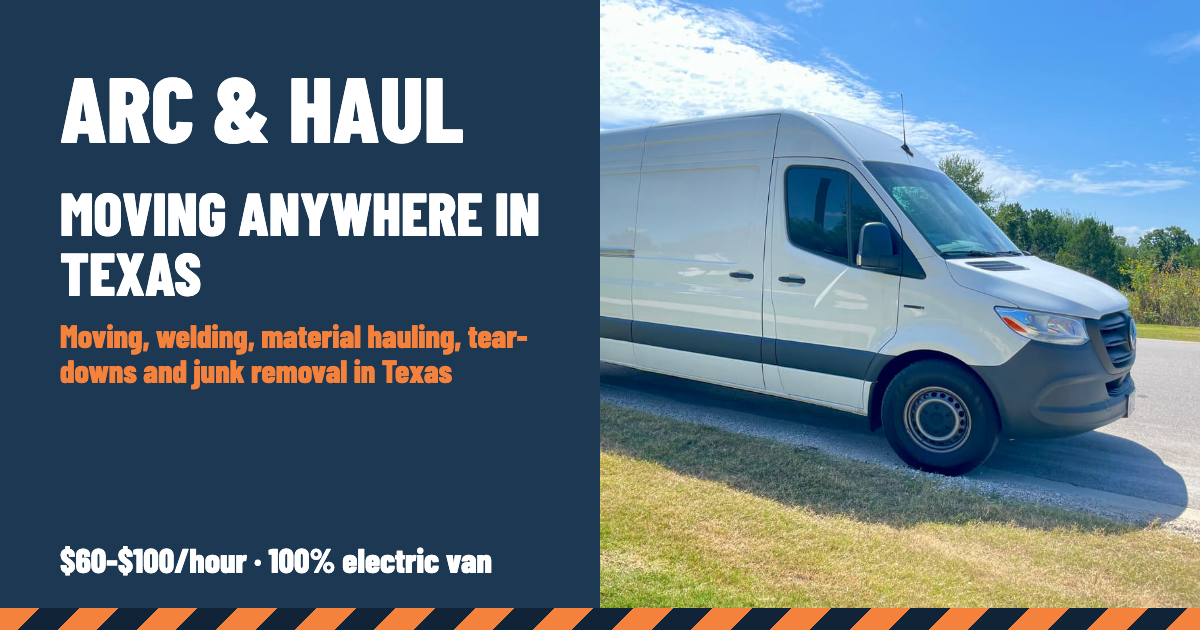
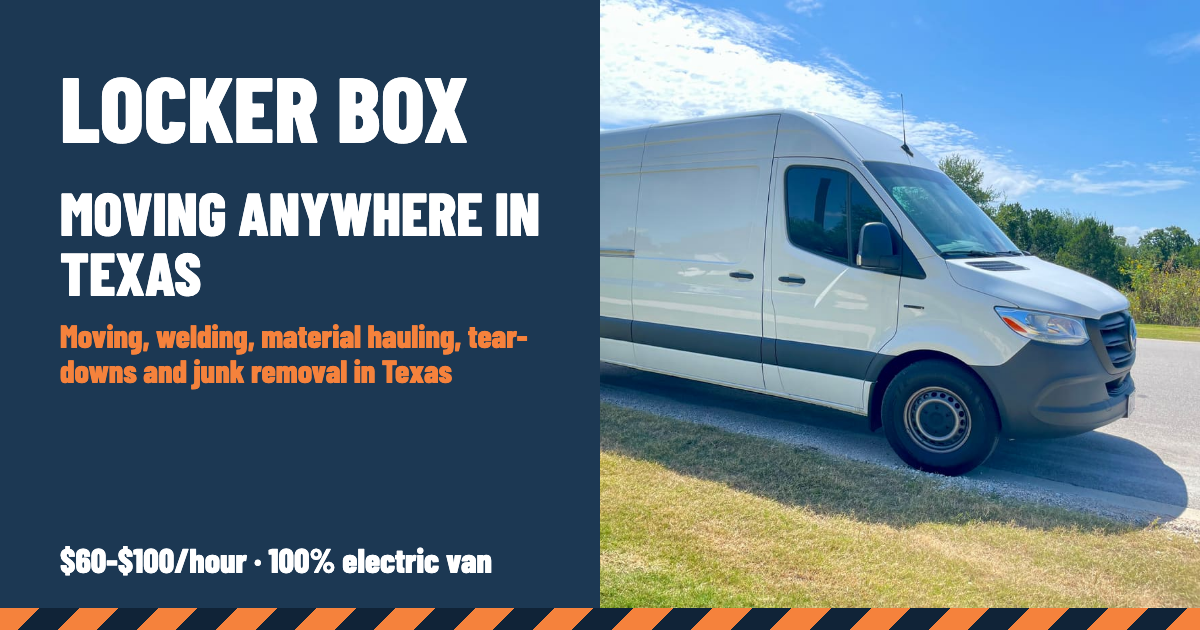
Rename to Locker Box

Changed region(s): [[0.0308, 0.1206, 0.4008, 0.2413]]

diff --git a/scripts/test.ts b/scripts/test.ts
@@ -133,8 +133,8 @@ try {
   if (!business.rating.score) ok(await page.locator('header').getByText('reviews').count() === 0, 'real: no rating until you have one');
   ok(await page.getByText('3 hours of work comes to $180-$300').count() === 1, 'real: worked example shows');
   if (todos().some((t) => t.blocker)) ok(await page.locator('meta[name=robots][content=noindex]').count() === 1, 'real: unfinished site stays out of Google');
-  ok(!/rangebolt/i.test(home), 'real: old name is gone');
-  ok(await page.getByText('Arc & Haul').count() > 0, 'real: name shows');
+  ok(!/rangebolt|arc &(amp;)? haul/i.test(home), 'real: old names are gone');
+  ok(await page.getByText('Locker Box').count() > 0, 'real: name shows');
   // Whatever the config leaves blank must stay hidden.
   const ids = await page.locator('main section').evaluateAll((els) => els.map((x) => x.id));
   const shows = (id: string, should: boolean) => ok(ids.includes(id) === should, `real: section ${id} ${should ? 'shows' : 'stays hidden'}`);

diff --git a/src/data/business.ts b/src/data/business.ts
@@ -10,10 +10,10 @@ const HOURLY = { type: 'hourly', min: 60, max: 100 } as const;
 
 export const business: Business = {
   // ---------- WHO ----------
-  // Working name. Search the Texas Secretary of State records before printing it.
-  name: 'Arc & Haul',
-  logo: '', // TODO (optional): logo for dark backgrounds. Blank shows the name as text.
-  logoOnLight: '', // TODO (optional): logo for white backgrounds, used by Google.
+  // Search the Texas Secretary of State records before printing it.
+  name: 'Locker Box',
+  logo: '', // TODO: your Locker Box logo, for dark backgrounds. Blank shows the name as text.
+  logoOnLight: '', // TODO: your Locker Box logo, for white backgrounds. Used by Google.
   headline: 'Moving anywhere in Texas',
   subheading: 'I handle your move myself, using a quiet, all-electric van.',
   whatIDo: 'Moving, welding, material hauling, tear-downs and junk removal',

diff --git a/src/lib/derive.ts b/src/lib/derive.ts
@@ -92,7 +92,7 @@ export function todos(): { item: string; blocker?: boolean }[] {
   need(b.trades, 'Services and prices', true);
   need(b.area.summary, 'Service area', true);
   need(b.domain, 'Domain (QR code cannot be made until then)');
-  need(b.logo, 'Logo (optional, the name shows as text until then)');
+  need(b.logo, 'Your Locker Box logo files (the name shows as text until then)');
   need(b.plans, 'Care plan (recommended, steady income)');
   need(b.hours, 'Hours');
   need(b.email, 'Email');
